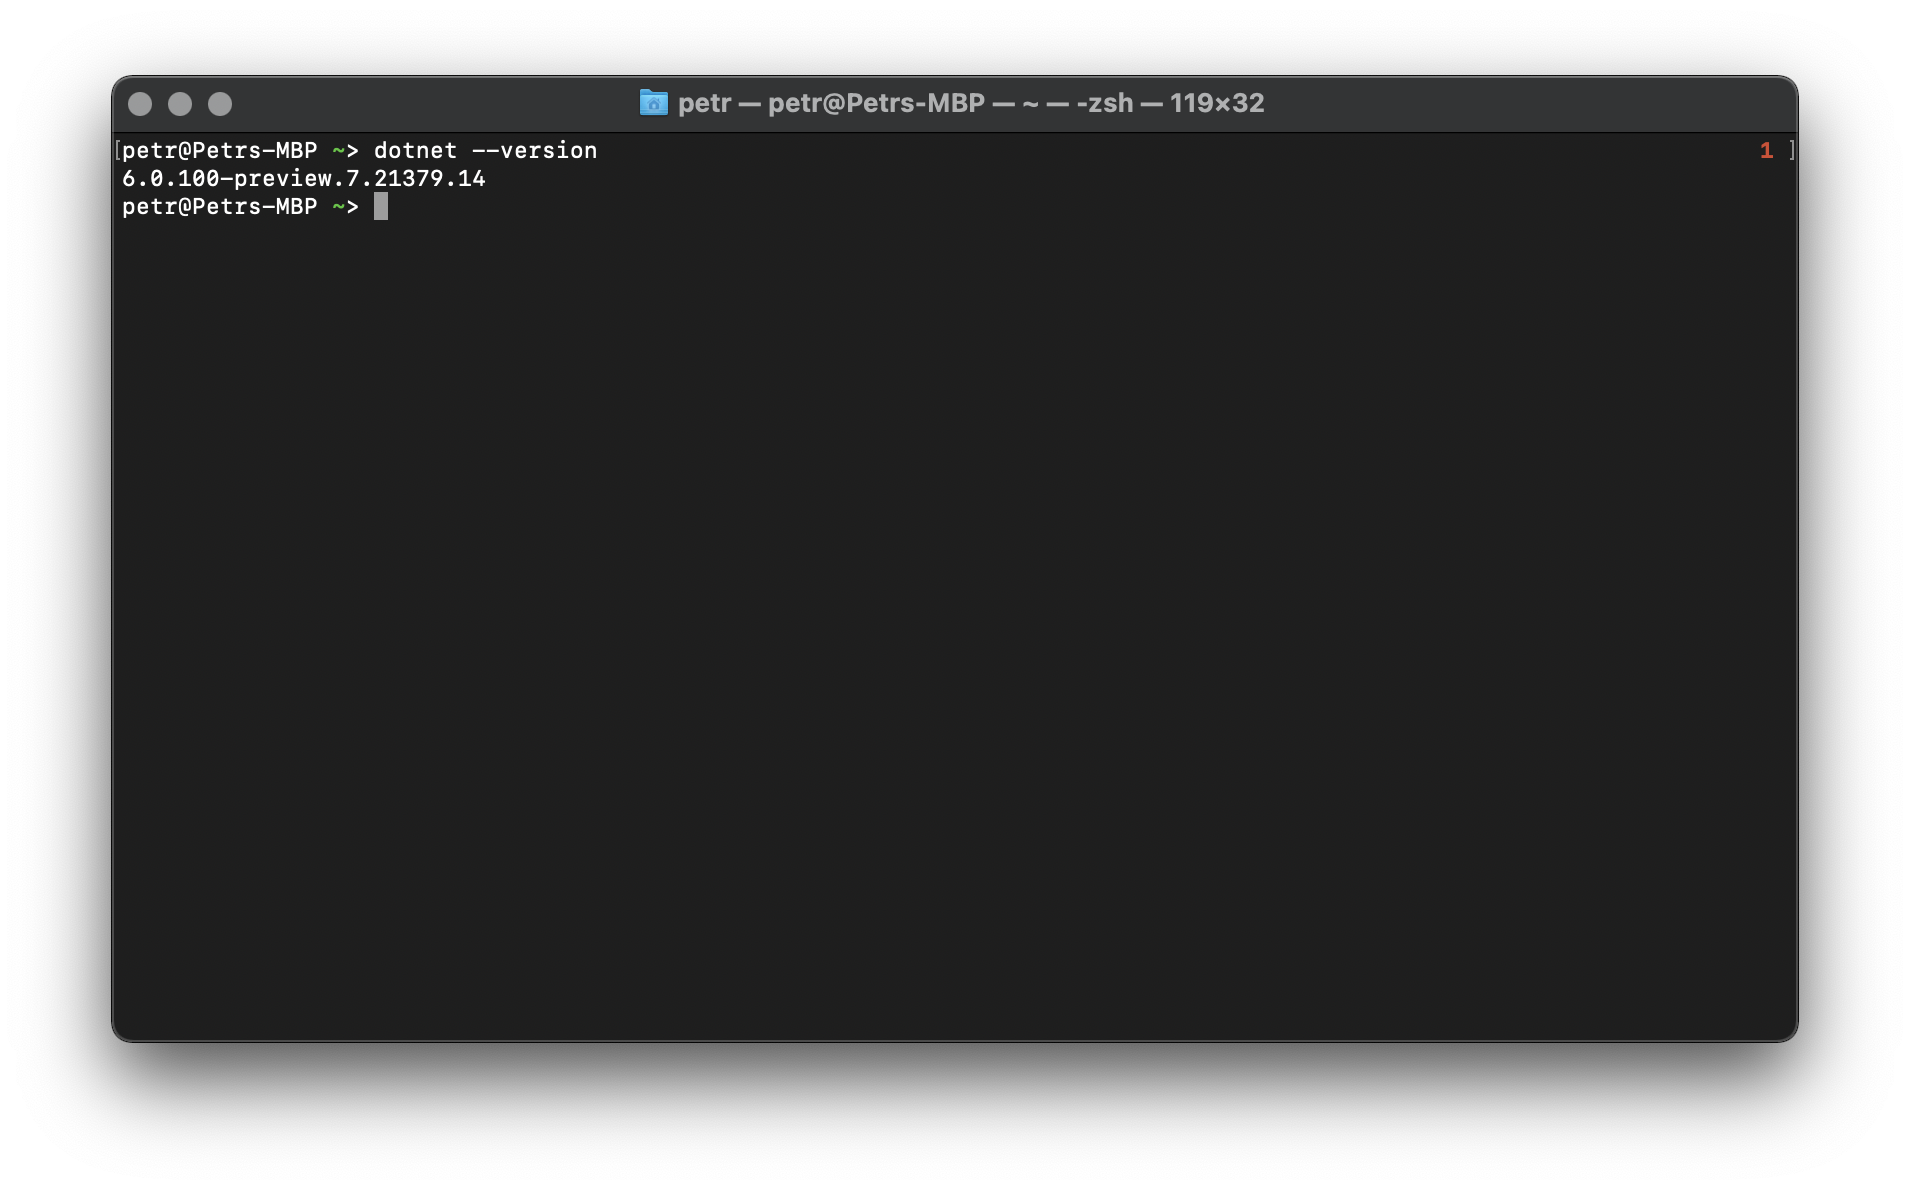
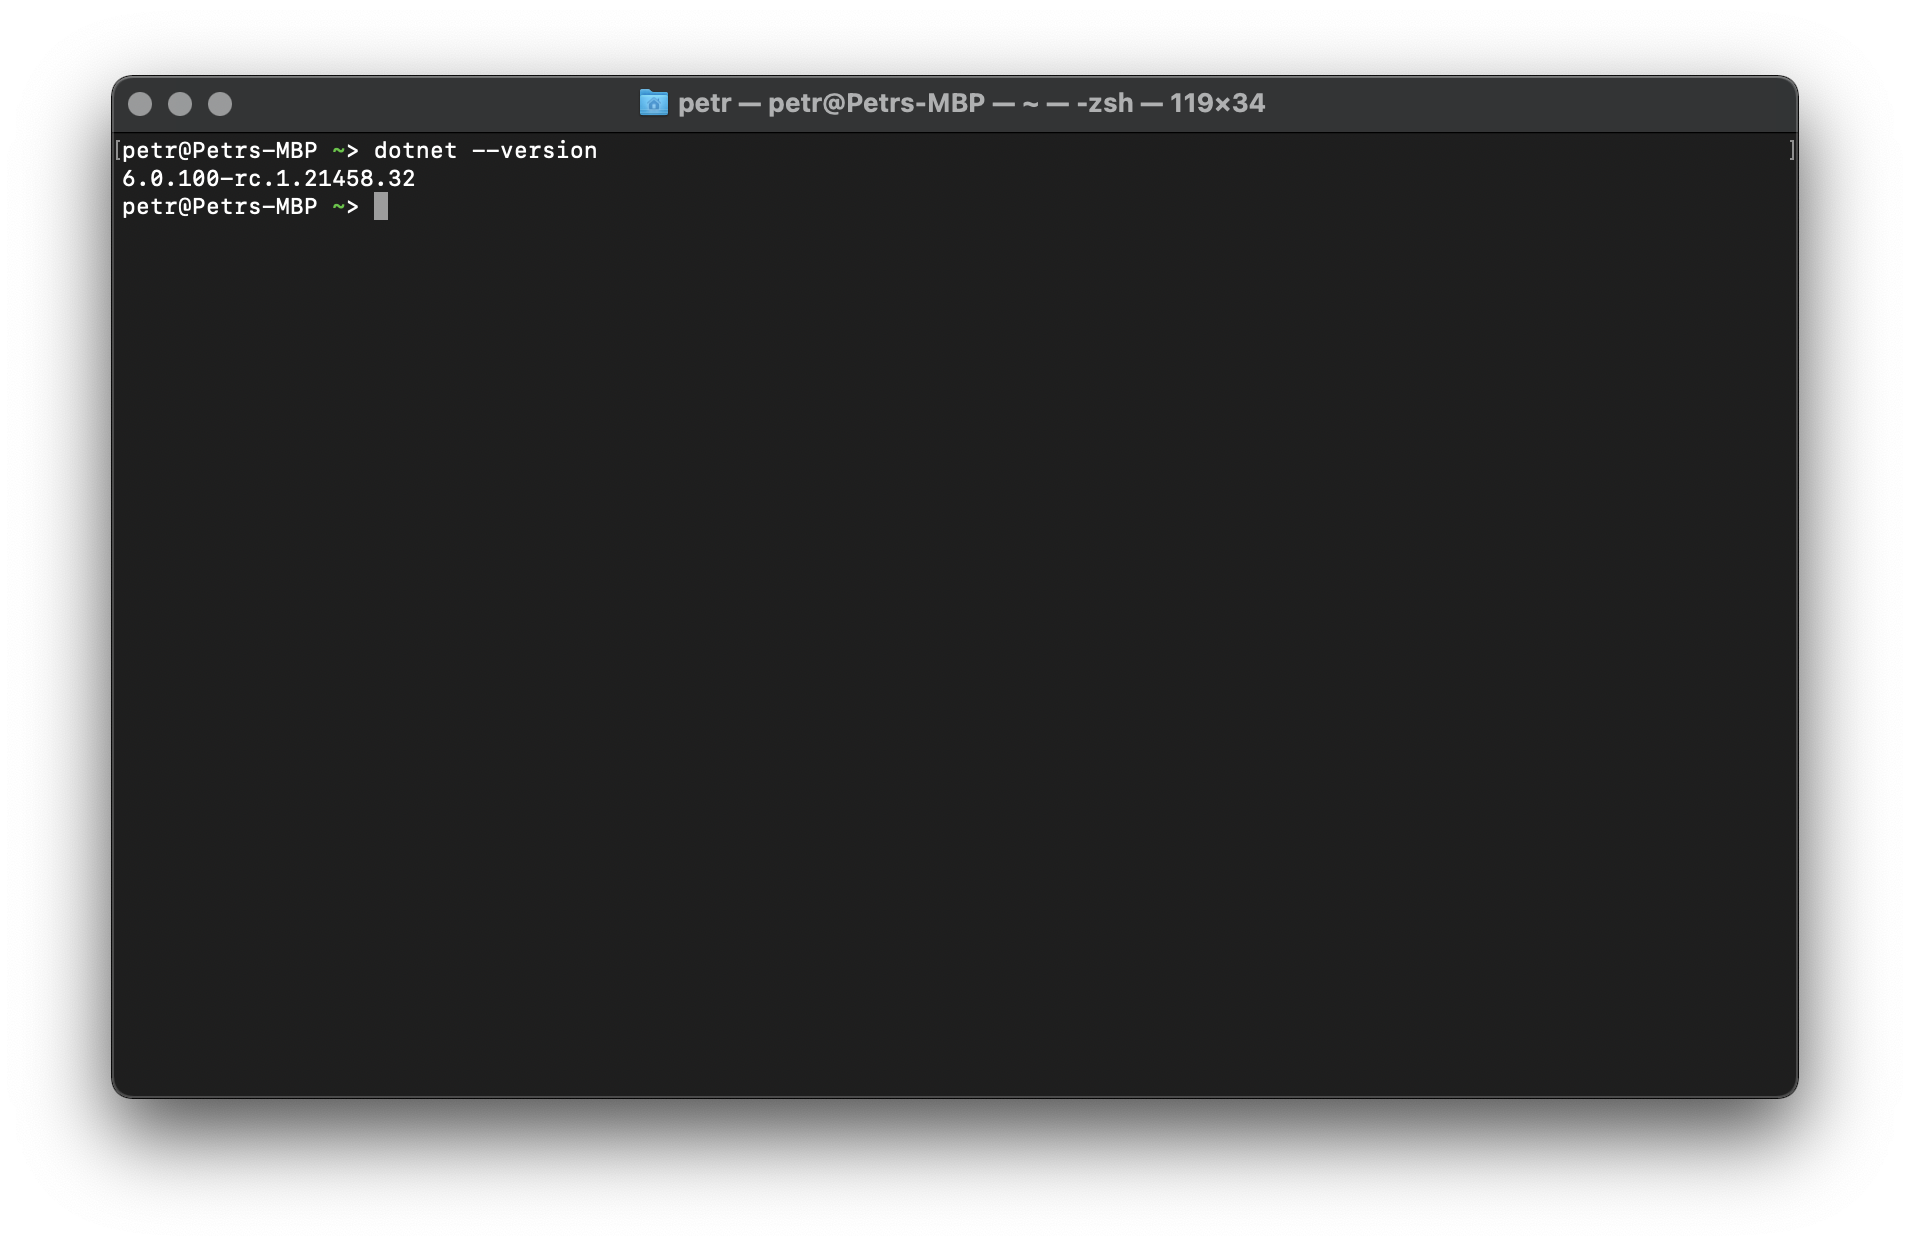
Mention specific dotnet version we're using (RC1).

Changed region(s): [[0.0618, 0.0622, 0.9267, 0.1866], [0.0618, 0.8706, 0.9576, 0.9017]]

diff --git a/docs/setup/_dotnet.md b/docs/setup/_dotnet.md
@@ -1,6 +1,10 @@
 We will also need the .NET 6 _runtime_ to run our code and manage 3rd party dependencies.
 You can get an installer for your platform on https://dotnet.microsoft.com/download/dotnet/6.0.
 
+:::info
+Our sample applications have been developed and tested with .NET 6 **Release Candidate 1**.
+:::
+
 To make sure the tool is available, try running the following command in `bash`:
 
 ```bash
